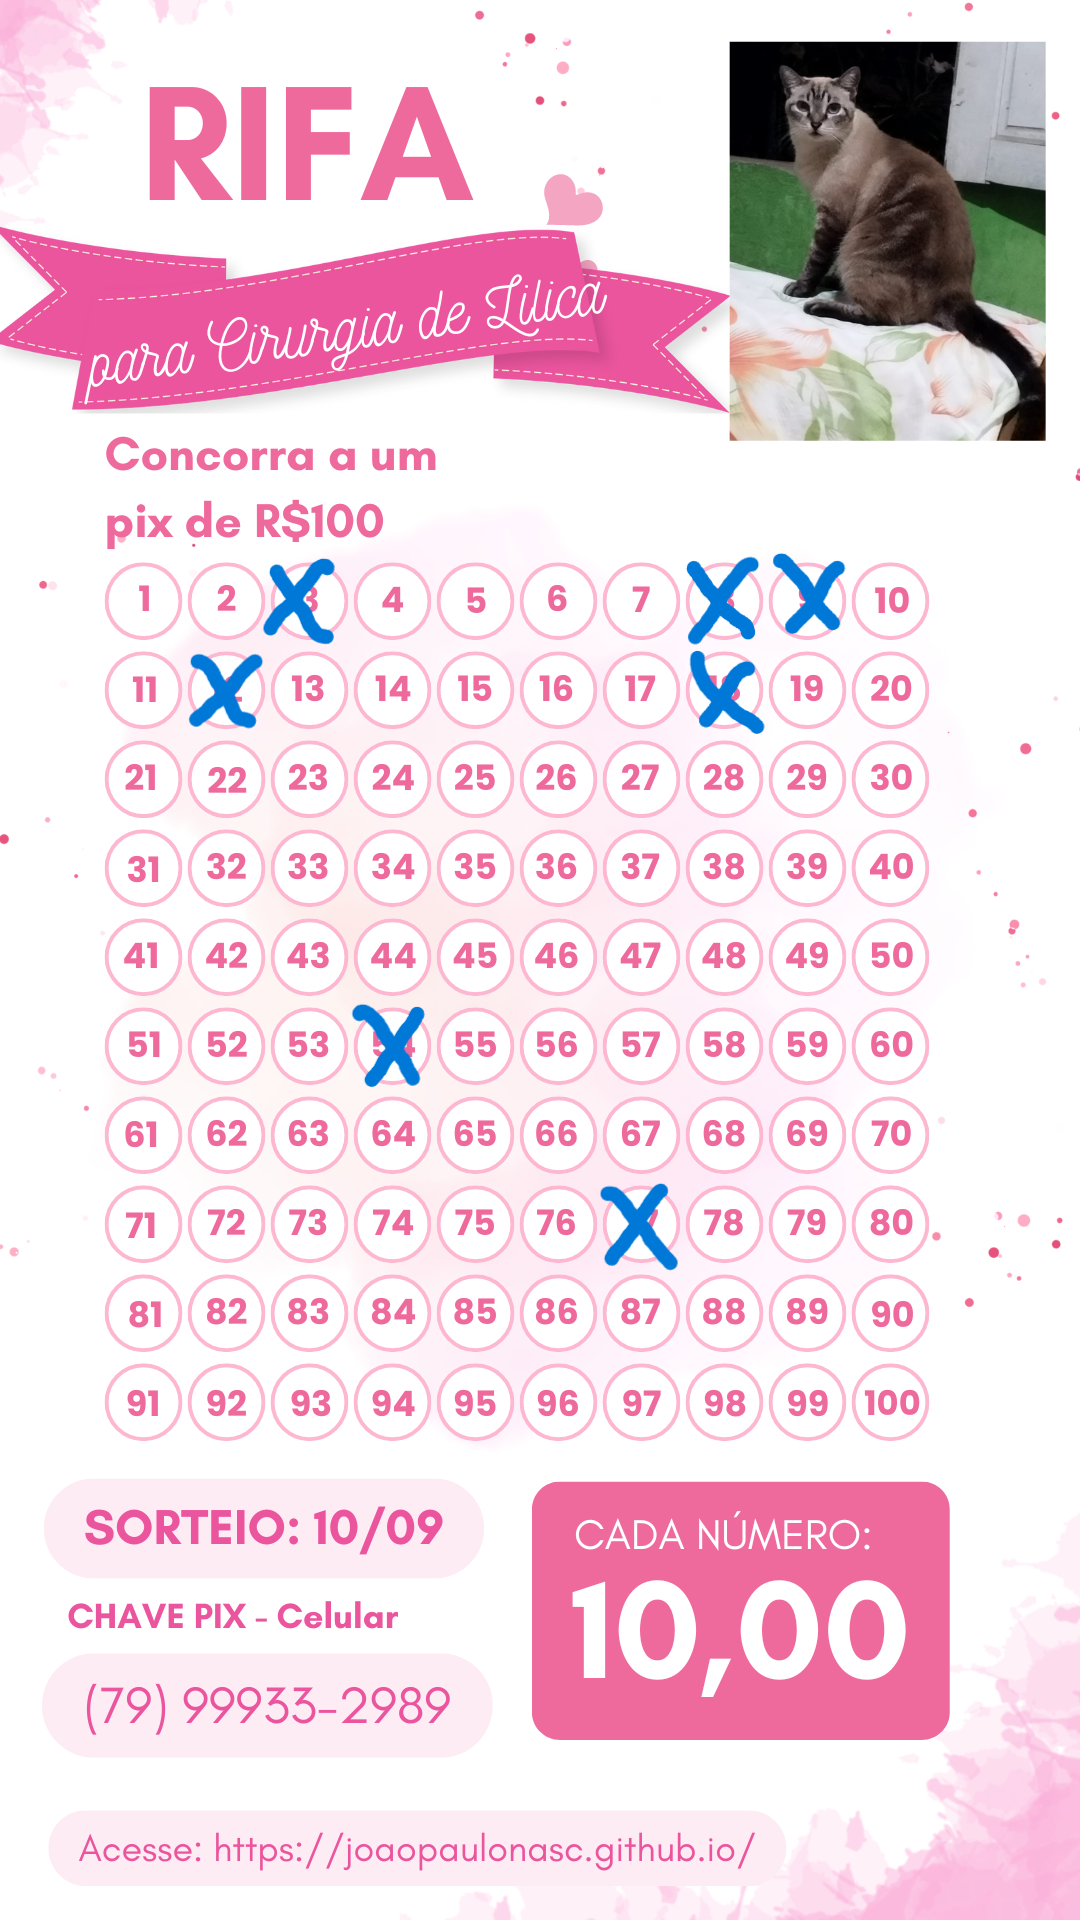
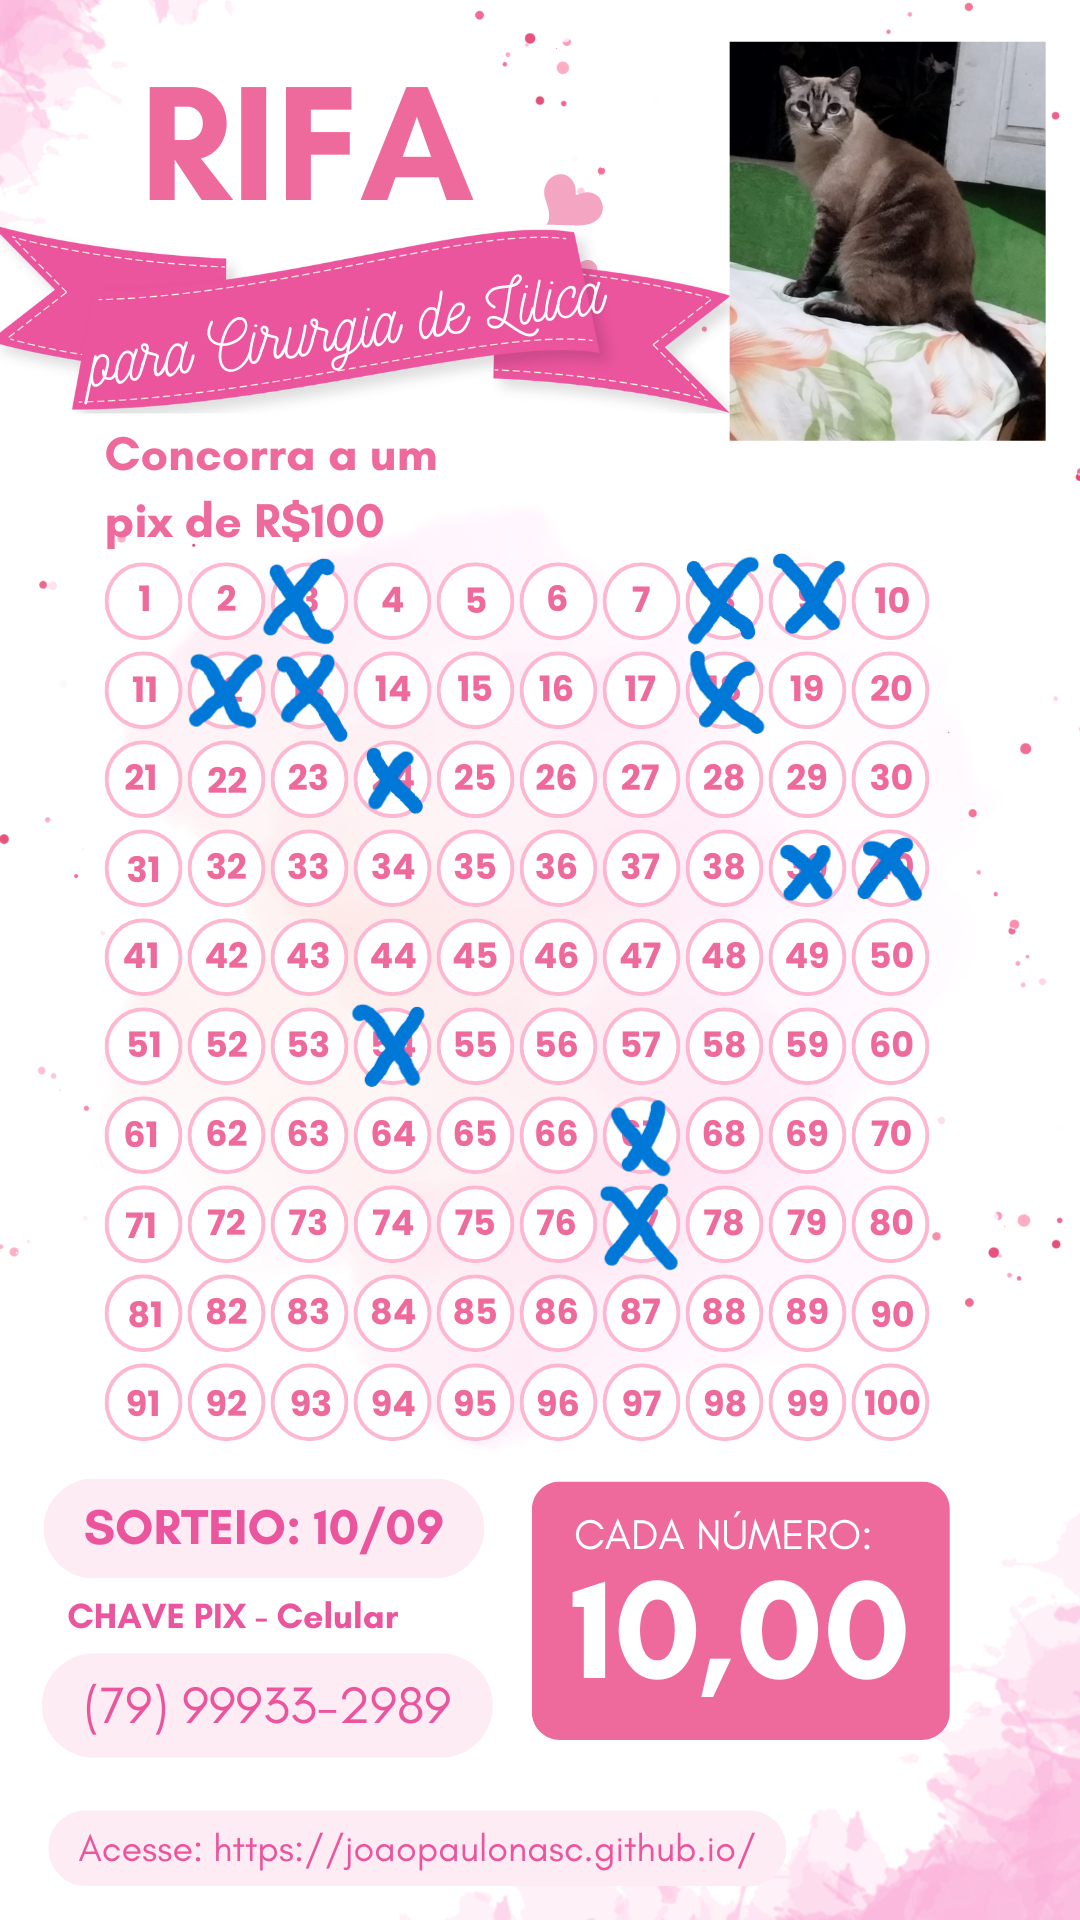
jorgeNiviaRifa

diff --git a/index.html b/index.html
@@ -87,13 +87,25 @@
           <td>16/08/2024</td>
           <td>Gilvânia</td>
           <td>R$ 40,00</td>
-          <td>?,?,?,?</td>
+          <td>?, ?, ?, ?</td>
         </tr>
         <td>7</td>
           <td>16/08/2024</td>
           <td>Ingrid</td>
           <td>R$ 30,00</td>
           <td>9, 8, 18</td>
+        </tr>
+        <td>8</td>
+          <td>16/08/2024</td>
+          <td>Nivia</td>
+          <td>R$ 50,00</td>
+          <td>13, 24, 39, 40, 67</td>
+        </tr>
+        <td>9</td>
+          <td>16/08/2024</td>
+          <td>Jorge</td>
+          <td>R$ 20,00</td>
+          <td>?, ?</td>
         </tr>
         <!-- Adicione mais linhas conforme necessário -->
       </table>
